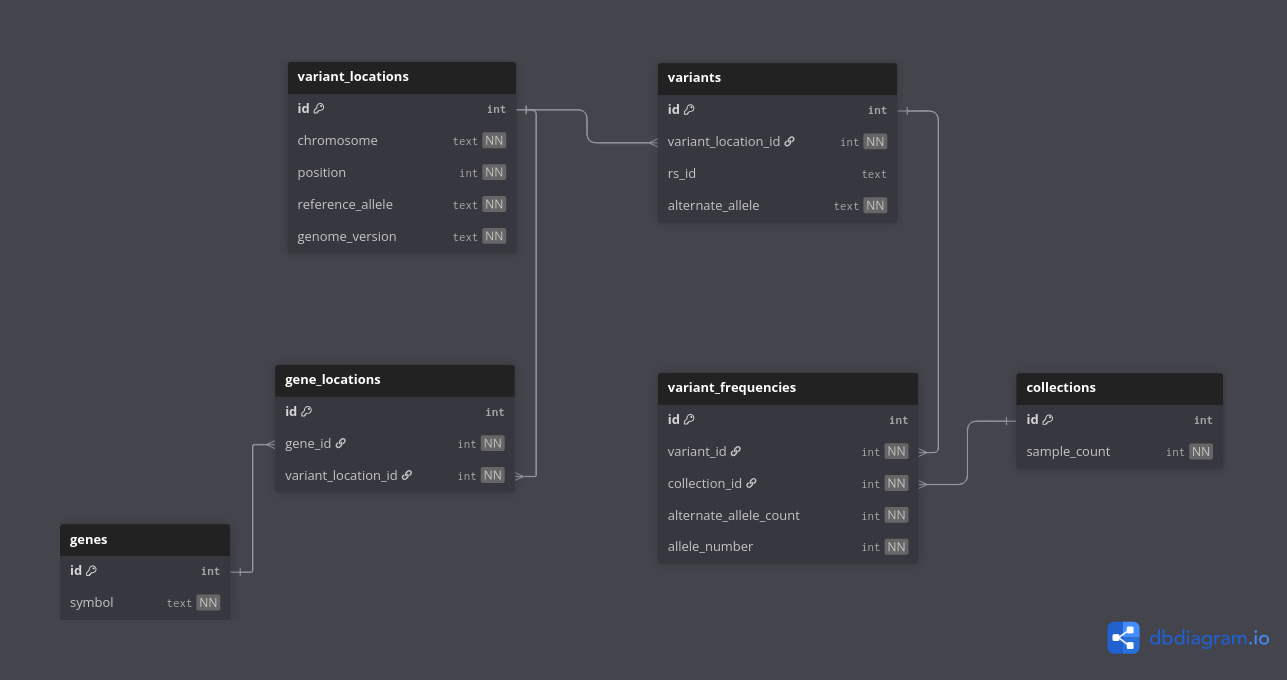
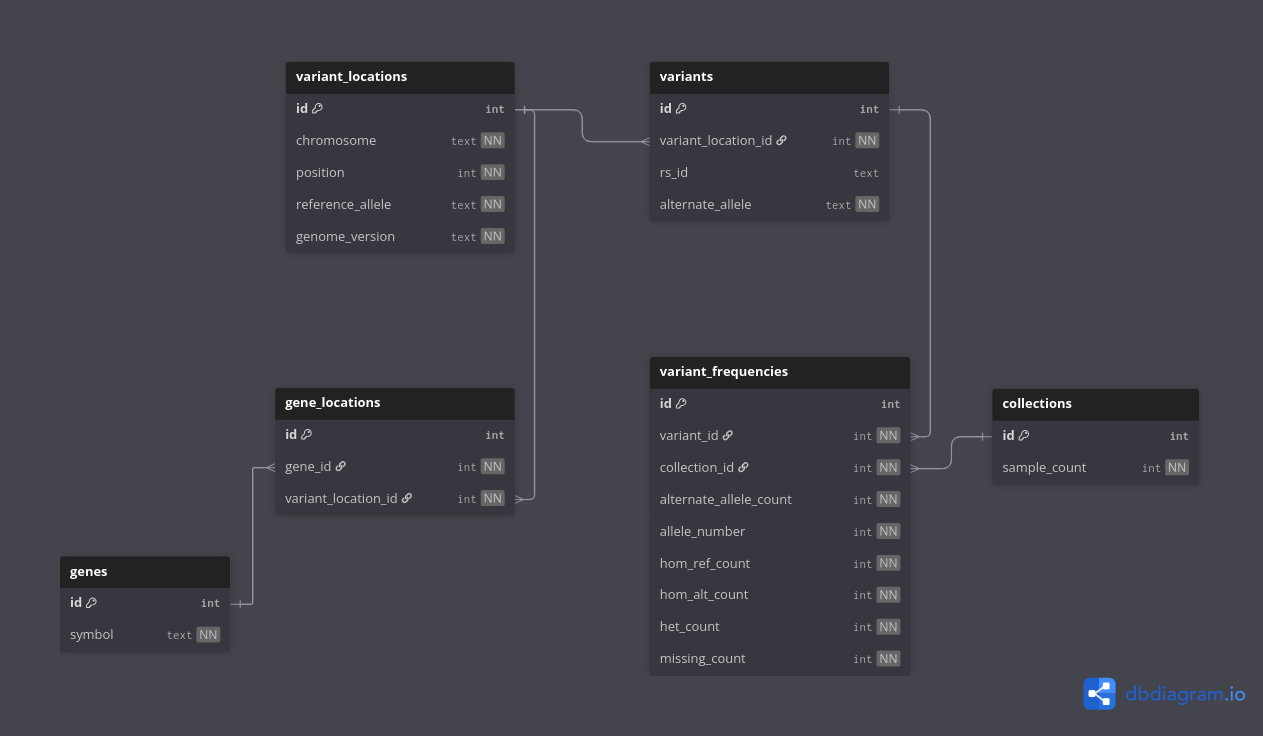
Add aggregated genotype info to schema

diff --git a/src/utils/db_utils.py b/src/utils/db_utils.py
@@ -89,6 +89,10 @@ def create_tables(dbname: str, user: str, password: str, host: str) -> None:
                 collection_id INTEGER NOT NULL,
                 alternate_allele_count INTEGER NOT NULL,
                 allele_number INTEGER NOT NULL,
+                hom_ref_count INTEGER NOT NULL,
+                hom_alt_count INTEGER NOT NULL,
+                het_count INTEGER NOT NULL,
+                missing_count INTEGER NOT NULL,
                 FOREIGN KEY (variant_id) REFERENCES variants (id),
                 FOREIGN KEY (collection_id) REFERENCES collections (id),
                 UNIQUE (variant_id, collection_id)
@@ -163,8 +167,9 @@ def insert_variant_frequency() -> str:
     Return the SQL query string for inserting or updating a variant frequency in the 'variant_frequencies' table.
     """
     variant_frequency_insert_query = """
-                            INSERT INTO variant_frequencies (variant_id, collection_id, alternate_allele_count, allele_number)
-                            VALUES (%s, %s, %s, %s)
+                            INSERT INTO variant_frequencies (variant_id, collection_id, alternate_allele_count, 
+                                        allele_number, hom_ref_count, hom_alt_count, het_count, missing_count)
+                            VALUES (%s, %s, %s, %s, %s, %s, %s, %s)
                         """
     return variant_frequency_insert_query
 

diff --git a/src/vcf2db.py b/src/vcf2db.py
@@ -70,8 +70,20 @@ def process_data(vcf_path: str, db_name: str, db_user: str, db_password: str, db
                             allele_count = ac_info[i]
                         else:
                             allele_count = ac_info
+                        
+                        genotypes = [sample['GT'] for sample in record.samples.values()]
+                        hom_ref_count = het_count = hom_alt_count = missing_count = 0
+                        for gt in genotypes:
+                            if gt is None or None in gt: # ./., 0/., ...missing genotypes
+                                missing_count += 1
+                            elif gt == (0, 0):
+                                hom_ref_count += 1
+                            elif gt == (i+1, i+1):
+                                hom_alt_count += 1
+                            elif (i+1) in gt and 0 in gt:
+                                het_count += 1
 
-                        cur.execute(insert_variant_frequency(), (variant_id, collection_id, allele_count, an_info))
+                        cur.execute(insert_variant_frequency(), (variant_id, collection_id, allele_count, an_info, hom_ref_count, hom_alt_count, het_count, missing_count))
                     
                     processed += 1
                     if processed % 10000 == 0: # log and commit every 10,000 records
